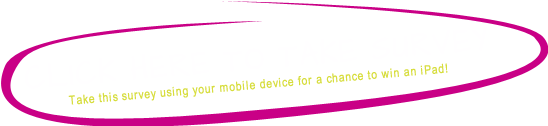
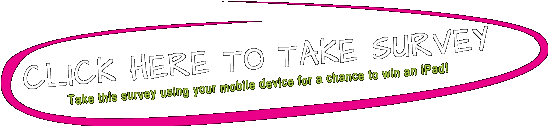
changed the shade of green...
...again!

diff --git a/themes/SFCCappy.min.css b/themes/SFCCappy.min.css
@@ -6,4 +6,4 @@
 * Dual licensed under the MIT or GPL Version 2 licenses.
 * http://jquery.org/license
 *
-*/.ui-bar-a{border:1px solid #d5de22 ;background:#d5de22 ;color:#ffffff ;font-weight:bold;text-shadow:0  -1px  1px  #444444 ;background-image:-webkit-gradient(linear,left top,left bottom,from( #7f8514 ),to( #FFFF2f )); background-image:-webkit-linear-gradient( #7f8514,#FFFF2f ); background-image:   -moz-linear-gradient( #7f8514,#FFFF2f ); background-image:    -ms-linear-gradient( #7f8514,#FFFF2f ); background-image:     -o-linear-gradient( #7f8514,#FFFF2f ); background-image:        linear-gradient( #7f8514,#FFFF2f );}.ui-bar-a .ui-link-inherit{color:#ffffff ;}.ui-bar-a a.ui-link{color:#7cc4e7 ;font-weight:bold;}.ui-bar-a a.ui-link:visited{   color:#2489CE ;}.ui-bar-a a.ui-link:hover{color:#2489CE ;}.ui-bar-a a.ui-link:active{color:#2489CE ;}.ui-bar-a,.ui-bar-a input,.ui-bar-a select,.ui-bar-a textarea,.ui-bar-a button{font-family:Arial,Helvetica,Verdana,sans-serif ;}.ui-body-a,.ui-overlay-a{border:1px solid #545454 ;color:#ffffff ;text-shadow:0  1px  1px  #444444 ;background:#000000 ;background-image:-webkit-gradient(linear,left top,left bottom,from( #000000 ),to( #000000 )); background-image:-webkit-linear-gradient( #000000,#000000 ); background-image:   -moz-linear-gradient( #000000,#000000 ); background-image:    -ms-linear-gradient( #000000,#000000 ); background-image:     -o-linear-gradient( #000000,#000000 ); background-image:        linear-gradient( #000000,#000000 );}.ui-overlay-a{background-image:none;border-width:0;}.ui-body-a,.ui-body-a input,.ui-body-a select,.ui-body-a textarea,.ui-body-a button{font-family:Arial,Helvetica,Verdana,sans-serif ;}.ui-body-a .ui-link-inherit{color:#ffffff ;}.ui-body-a .ui-link{color:#ed1e79 ;font-weight:bold;}.ui-body-a .ui-link:visited{   color:#9a134e ;}.ui-body-a .ui-link:hover{color:#FF228b ;}.ui-body-a .ui-link:active{color:#ed1e79 ;}.ui-btn-up-a{border:1px solid #111 ;background:#333 ;font-weight:bold;color:#fff ;text-shadow:0  1px  1px  #111 ;background-image:-webkit-gradient(linear,left top,left bottom,from( #444444 ),to( #2d2d2d )); background-image:-webkit-linear-gradient( #444444,#2d2d2d ); background-image:   -moz-linear-gradient( #444444,#2d2d2d ); background-image:    -ms-linear-gradient( #444444,#2d2d2d ); background-image:     -o-linear-gradient( #444444,#2d2d2d ); background-image:        linear-gradient( #444444,#2d2d2d );}.ui-btn-up-a:visited,.ui-btn-up-a a.ui-link-inherit{color:#fff ;}.ui-btn-hover-a{border:1px solid #000 ;background:#444444 ;font-weight:bold;color:#fff ;text-shadow:0  1px  1px  #111 ;background-image:-webkit-gradient(linear,left top,left bottom,from( #555555 ),to( #383838 )); background-image:-webkit-linear-gradient( #555555,#383838 ); background-image:   -moz-linear-gradient( #555555,#383838 ); background-image:    -ms-linear-gradient( #555555,#383838 ); background-image:     -o-linear-gradient( #555555,#383838 ); background-image:        linear-gradient( #555555,#383838 );}.ui-btn-hover-a:visited,.ui-btn-hover-a:hover,.ui-btn-hover-a a.ui-link-inherit{color:#fff ;}.ui-btn-down-a{border:1px solid #000 ;background:#222 ;font-weight:bold;color:#fff ;text-shadow:0  1px  1px  #111 ;background-image:-webkit-gradient(linear,left top,left bottom,from( #202020 ),to( #2c2c2c )); background-image:-webkit-linear-gradient( #202020,#2c2c2c ); background-image:   -moz-linear-gradient( #202020,#2c2c2c ); background-image:    -ms-linear-gradient( #202020,#2c2c2c ); background-image:     -o-linear-gradient( #202020,#2c2c2c ); background-image:        linear-gradient( #202020,#2c2c2c );}.ui-btn-down-a:visited,.ui-btn-down-a:hover,.ui-btn-down-a a.ui-link-inherit{color:#fff ;}.ui-btn-up-a,.ui-btn-hover-a,.ui-btn-down-a{font-family:Arial,Helvetica,Verdana,sans-serif ;text-decoration:none;}a.ui-link-inherit{text-decoration:none !important;}.ui-btn-active{border:1px solid #ed1e79 ;background:#ed1e79 ;font-weight:bold;color:#ffffff ;cursor:pointer;text-shadow:0  1px  1px  #444444 ;text-decoration:none;background-image:-webkit-gradient(linear,left top,left bottom,from( #FF2185 ),to( #d51b6c )); background-image:-webkit-linear-gradient( #FF2185,#d51b6c ); background-image:   -moz-linear-gradient( #FF2185,#d51b6c ); background-image:    -ms-linear-gradient( #FF2185,#d51b6c ); background-image:     -o-linear-gradient( #FF2185,#d51b6c ); background-image:        linear-gradient( #FF2185,#d51b6c ); font-family:Arial,Helvetica,Verdana,sans-serif ;}.ui-btn-active:visited,.ui-btn-active:hover,.ui-btn-active a.ui-link-inherit{color:#ffffff ;}.ui-btn-inner{border-top:1px solid #fff;border-color:rgba(255,255,255,.3);}.ui-corner-tl{-moz-border-radius-topleft:.6em ;-webkit-border-top-left-radius:.6em ;border-top-left-radius:.6em ;}.ui-corner-tr{-moz-border-radius-topright:.6em ;-webkit-border-top-right-radius:.6em ;border-top-right-radius:.6em ;}.ui-corner-bl{-moz-border-radius-bottomleft:.6em ;-webkit-border-bottom-left-radius:.6em ;border-bottom-left-radius:.6em ;}.ui-corner-br{-moz-border-radius-bottomright:.6em ;-webkit-border-bottom-right-radius:.6em ;border-bottom-right-radius:.6em ;}.ui-corner-top{-moz-border-radius-topleft:.6em ;-webkit-border-top-left-radius:.6em ;border-top-left-radius:.6em ;-moz-border-radius-topright:.6em ;-webkit-border-top-right-radius:.6em ;border-top-right-radius:.6em ;}.ui-corner-bottom{-moz-border-radius-bottomleft:.6em ;-webkit-border-bottom-left-radius:.6em ;border-bottom-left-radius:.6em ;-moz-border-radius-bottomright:.6em ;-webkit-border-bottom-right-radius:.6em ;border-bottom-right-radius:.6em ;}.ui-corner-right{-moz-border-radius-topright:.6em ;-webkit-border-top-right-radius:.6em ;border-top-right-radius:.6em ;-moz-border-radius-bottomright:.6em ;-webkit-border-bottom-right-radius:.6em ;border-bottom-right-radius:.6em ;}.ui-corner-left{-moz-border-radius-topleft:.6em ;-webkit-border-top-left-radius:.6em ;border-top-left-radius:.6em ;-moz-border-radius-bottomleft:.6em ;-webkit-border-bottom-left-radius:.6em ;border-bottom-left-radius:.6em ;}.ui-corner-all{-moz-border-radius:.6em ;-webkit-border-radius:.6em ;border-radius:.6em ;}.ui-corner-none{-moz-border-radius:   0;-webkit-border-radius:   0;border-radius:   0;}.ui-br{border-bottom:rgb(130,130,130);border-bottom:rgba(130,130,130,.3);border-bottom-width:1px;border-bottom-style:solid;}.ui-disabled{opacity:.3;}.ui-disabled,.ui-disabled a{cursor:default !important;pointer-events:none;}.ui-disabled .ui-btn-text{-ms-filter:"progid:DXImageTransform.Microsoft.Alpha(opacity=30)";filter:alpha(opacity=30);zoom:1;}.ui-icon,.ui-icon-searchfield:after{background:#666 ;background:rgba(0,0,0,.4) ;background-image:url(images/icons-18-white.png) ;background-repeat:no-repeat;-moz-border-radius:9px;-webkit-border-radius:9px;border-radius:9px;}.ui-icon-alt{background:#fff;background:rgba(255,255,255,.3);background-image:url(images/icons-18-black.png);background-repeat:no-repeat;}@media only screen and (-webkit-min-device-pixel-ratio:1.5),      only screen and (min--moz-device-pixel-ratio:1.5),      only screen and (min-resolution:240dpi){.ui-icon-plus,.ui-icon-minus,.ui-icon-delete,.ui-icon-arrow-r,.ui-icon-arrow-l,.ui-icon-arrow-u,.ui-icon-arrow-d,.ui-icon-check,.ui-icon-gear,.ui-icon-refresh,.ui-icon-forward,.ui-icon-back,.ui-icon-grid,.ui-icon-star,.ui-icon-alert,.ui-icon-info,.ui-icon-home,.ui-icon-search,.ui-icon-searchfield:after,.ui-icon-checkbox-off,.ui-icon-checkbox-on,.ui-icon-radio-off,.ui-icon-radio-on{background-image:url(images/icons-36-white.png);-moz-background-size:776px 18px;-o-background-size:776px 18px;-webkit-background-size:776px 18px;background-size:776px 18px;}.ui-icon-alt{background-image:url(images/icons-36-black.png);}}.ui-icon-plus{background-position:-0 50%;}.ui-icon-minus{background-position:-36px 50%;}.ui-icon-delete{background-position:-72px 50%;}.ui-icon-arrow-r{background-position:-108px 50%;}.ui-icon-arrow-l{background-position:-144px 50%;}.ui-icon-arrow-u{background-position:-180px 50%;}.ui-icon-arrow-d{background-position:-216px 50%;}.ui-icon-check{background-position:-252px 50%;}.ui-icon-gear{background-position:-288px 50%;}.ui-icon-refresh{background-position:-324px 50%;}.ui-icon-forward{background-position:-360px 50%;}.ui-icon-back{background-position:-396px 50%;}.ui-icon-grid{background-position:-432px 50%;}.ui-icon-star{background-position:-468px 50%;}.ui-icon-alert{background-position:-504px 50%;}.ui-icon-info{background-position:-540px 50%;}.ui-icon-home{background-position:-576px 50%;}.ui-icon-search,.ui-icon-searchfield:after{background-position:-612px 50%;}.ui-icon-checkbox-off{background-position:-684px 50%;}.ui-icon-checkbox-on{background-position:-648px 50%;}.ui-icon-radio-off{background-position:-756px 50%;}.ui-icon-radio-on{background-position:-720px 50%;}.ui-checkbox .ui-icon{-moz-border-radius:3px;-webkit-border-radius:3px;border-radius:3px;}.ui-icon-checkbox-off,.ui-icon-radio-off{background-color:transparent;}.ui-checkbox-on .ui-icon,.ui-radio-on .ui-icon{background-color:#ed1e79 ; }.ui-icon-loading{background:url(images/ajax-loader.gif);background-size:46px 46px;}.ui-btn-corner-tl{-moz-border-radius-topleft:1em ;-webkit-border-top-left-radius:1em ;border-top-left-radius:1em ;}.ui-btn-corner-tr{-moz-border-radius-topright:1em ;-webkit-border-top-right-radius:1em ;border-top-right-radius:1em ;}.ui-btn-corner-bl{-moz-border-radius-bottomleft:1em ;-webkit-border-bottom-left-radius:1em ;border-bottom-left-radius:1em ;}.ui-btn-corner-br{-moz-border-radius-bottomright:1em ;-webkit-border-bottom-right-radius:1em ;border-bottom-right-radius:1em ;}.ui-btn-corner-top{-moz-border-radius-topleft:1em ;-webkit-border-top-left-radius:1em ;border-top-left-radius:1em ;-moz-border-radius-topright:1em ;-webkit-border-top-right-radius:1em ;border-top-right-radius:1em ;}.ui-btn-corner-bottom{-moz-border-radius-bottomleft:1em ;-webkit-border-bottom-left-radius:1em ;border-bottom-left-radius:1em ;-moz-border-radius-bottomright:1em ;-webkit-border-bottom-right-radius:1em ;border-bottom-right-radius:1em ;}.ui-btn-corner-right{-moz-border-radius-topright:1em ;-webkit-border-top-right-radius:1em ;border-top-right-radius:1em ;-moz-border-radius-bottomright:1em ;-webkit-border-bottom-right-radius:1em ;border-bottom-right-radius:1em ;}.ui-btn-corner-left{-moz-border-radius-topleft:1em ;-webkit-border-top-left-radius:1em ;border-top-left-radius:1em ;-moz-border-radius-bottomleft:1em ;-webkit-border-bottom-left-radius:1em ;border-bottom-left-radius:1em ;}.ui-btn-corner-all{-moz-border-radius:1em ;-webkit-border-radius:1em ;border-radius:1em ;}.ui-corner-tl,.ui-corner-tr,.ui-corner-bl,.ui-corner-br,.ui-corner-top,.ui-corner-bottom,.ui-corner-right,.ui-corner-left,.ui-corner-all,.ui-btn-corner-tl,.ui-btn-corner-tr,.ui-btn-corner-bl,.ui-btn-corner-br,.ui-btn-corner-top,.ui-btn-corner-bottom,.ui-btn-corner-right,.ui-btn-corner-left,.ui-btn-corner-all{ -webkit-background-clip:padding-box;     -moz-background-clip:padding;          background-clip:padding-box;}.ui-overlay{background:#666;opacity:.5;filter:Alpha(Opacity=50);position:absolute;width:100%;height:100%;}.ui-overlay-shadow{-moz-box-shadow:0px 0px 12px rgba(0,0,0,.6);-webkit-box-shadow:0px 0px 12px rgba(0,0,0,.6);box-shadow:0px 0px 12px rgba(0,0,0,.6);}.ui-shadow{-moz-box-shadow:0px 1px 4px  rgba(0,0,0,.3) ;-webkit-box-shadow:0px 1px 4px  rgba(0,0,0,.3) ;box-shadow:0px 1px 4px  rgba(0,0,0,.3) ;}.ui-bar-a .ui-shadow,.ui-bar-b .ui-shadow,.ui-bar-c .ui-shadow {-moz-box-shadow:0px 1px 0 rgba(255,255,255,.3);-webkit-box-shadow:0px 1px 0 rgba(255,255,255,.3);box-shadow:0px 1px 0 rgba(255,255,255,.3);}.ui-shadow-inset{-moz-box-shadow:inset 0px 1px 4px rgba(0,0,0,.2);-webkit-box-shadow:inset 0px 1px 4px rgba(0,0,0,.2);box-shadow:inset 0px 1px 4px rgba(0,0,0,.2);}.ui-icon-shadow{-moz-box-shadow:0px 1px 0 rgba(255,255,255,.4) ;-webkit-box-shadow:0px 1px 0 rgba(255,255,255,.4) ;box-shadow:0px 1px 0 rgba(255,255,255,.4) ;}.ui-btn:focus,.ui-link-inherit:focus{outline:0;}.ui-btn.ui-focus{z-index:1;}.ui-focus,.ui-btn:focus{-moz-box-shadow:inset 0px 0px 3px #ed1e79,0px 0px 9px #ed1e79 ;-webkit-box-shadow:inset 0px 0px 3px #ed1e79,0px 0px 9px #ed1e79 ;box-shadow:inset 0px 0px 3px #ed1e79,0px 0px 9px #ed1e79 ;}.ui-input-text.ui-focus,.ui-input-search.ui-focus{-moz-box-shadow:0px 0px 12px #ed1e79 ;-webkit-box-shadow:0px 0px 12px #ed1e79 ;box-shadow:0px 0px 12px #ed1e79 ;}.ui-mobile-nosupport-boxshadow *{-moz-box-shadow:none !important;-webkit-box-shadow:none !important;box-shadow:none !important;}.ui-mobile-nosupport-boxshadow .ui-focus,.ui-mobile-nosupport-boxshadow .ui-btn:focus,.ui-mobile-nosupport-boxshadow .ui-link-inherit:focus{outline-width:1px;outline-style:auto;}
+*/.ui-bar-a{border:1px solid #8cc63f ;background:#8cc63f ;color:#ffffff ;font-weight:bold;text-shadow:0  -1px  1px  #444444 ;background-image:-webkit-gradient(linear,left top,left bottom,from( #597e28 ),to( #beFF55 )); background-image:-webkit-linear-gradient( #597e28,#beFF55 ); background-image:   -moz-linear-gradient( #597e28,#beFF55 ); background-image:    -ms-linear-gradient( #597e28,#beFF55 ); background-image:     -o-linear-gradient( #597e28,#beFF55 ); background-image:        linear-gradient( #597e28,#beFF55 );}.ui-bar-a .ui-link-inherit{color:#ffffff ;}.ui-bar-a a.ui-link{color:#7cc4e7 ;font-weight:bold;}.ui-bar-a a.ui-link:visited{   color:#2489CE ;}.ui-bar-a a.ui-link:hover{color:#2489CE ;}.ui-bar-a a.ui-link:active{color:#2489CE ;}.ui-bar-a,.ui-bar-a input,.ui-bar-a select,.ui-bar-a textarea,.ui-bar-a button{     font-family:Helvetica,Arial,sans-serif ;}.ui-body-a,.ui-overlay-a{border:1px solid #545454 ;color:#ffffff ;text-shadow:0  1px  1px  #444444 ;background:#000000 ;background-image:-webkit-gradient(linear,left top,left bottom,from( #000000 ),to( #000000 )); background-image:-webkit-linear-gradient( #000000,#000000 ); background-image:   -moz-linear-gradient( #000000,#000000 ); background-image:    -ms-linear-gradient( #000000,#000000 ); background-image:     -o-linear-gradient( #000000,#000000 ); background-image:        linear-gradient( #000000,#000000 );}.ui-overlay-a{background-image:none;border-width:0;}.ui-body-a,.ui-body-a input,.ui-body-a select,.ui-body-a textarea,.ui-body-a button{     font-family:Helvetica,Arial,sans-serif ;}.ui-body-a .ui-link-inherit{color:#ffffff ;}.ui-body-a .ui-link{color:#ed1e79 ;font-weight:bold;}.ui-body-a .ui-link:visited{   color:#9a134e ;}.ui-body-a .ui-link:hover{color:#FF228b ;}.ui-body-a .ui-link:active{color:#ed1e79 ;}.ui-btn-up-a{border:1px solid #111 ;background:#333 ;font-weight:bold;color:#fff ;text-shadow:0  1px  1px  #111 ;background-image:-webkit-gradient(linear,left top,left bottom,from( #444444 ),to( #2d2d2d )); background-image:-webkit-linear-gradient( #444444,#2d2d2d ); background-image:   -moz-linear-gradient( #444444,#2d2d2d ); background-image:    -ms-linear-gradient( #444444,#2d2d2d ); background-image:     -o-linear-gradient( #444444,#2d2d2d ); background-image:        linear-gradient( #444444,#2d2d2d );}.ui-btn-up-a:visited,.ui-btn-up-a a.ui-link-inherit{color:#fff ;}.ui-btn-hover-a{border:1px solid #000 ;background:#444444 ;font-weight:bold;color:#fff ;text-shadow:0  1px  1px  #111 ;background-image:-webkit-gradient(linear,left top,left bottom,from( #555555 ),to( #383838 )); background-image:-webkit-linear-gradient( #555555,#383838 ); background-image:   -moz-linear-gradient( #555555,#383838 ); background-image:    -ms-linear-gradient( #555555,#383838 ); background-image:     -o-linear-gradient( #555555,#383838 ); background-image:        linear-gradient( #555555,#383838 );}.ui-btn-hover-a:visited,.ui-btn-hover-a:hover,.ui-btn-hover-a a.ui-link-inherit{color:#fff ;}.ui-btn-down-a{border:1px solid #000 ;background:#222 ;font-weight:bold;color:#fff ;text-shadow:0  1px  1px  #111 ;background-image:-webkit-gradient(linear,left top,left bottom,from( #202020 ),to( #2c2c2c )); background-image:-webkit-linear-gradient( #202020,#2c2c2c ); background-image:   -moz-linear-gradient( #202020,#2c2c2c ); background-image:    -ms-linear-gradient( #202020,#2c2c2c ); background-image:     -o-linear-gradient( #202020,#2c2c2c ); background-image:        linear-gradient( #202020,#2c2c2c );}.ui-btn-down-a:visited,.ui-btn-down-a:hover,.ui-btn-down-a a.ui-link-inherit{color:#fff ;}.ui-btn-up-a,.ui-btn-hover-a,.ui-btn-down-a{     font-family:Helvetica,Arial,sans-serif ;text-decoration:none;}a.ui-link-inherit{text-decoration:none !important;}.ui-btn-active{border:1px solid #ed1e79 ;background:#ed1e79 ;font-weight:bold;color:#ffffff ;cursor:pointer;text-shadow:0  1px  1px  #444444 ;text-decoration:none;background-image:-webkit-gradient(linear,left top,left bottom,from( #FF2185 ),to( #d51b6c )); background-image:-webkit-linear-gradient( #FF2185,#d51b6c ); background-image:   -moz-linear-gradient( #FF2185,#d51b6c ); background-image:    -ms-linear-gradient( #FF2185,#d51b6c ); background-image:     -o-linear-gradient( #FF2185,#d51b6c ); background-image:        linear-gradient( #FF2185,#d51b6c );      font-family:Helvetica,Arial,sans-serif ;}.ui-btn-active:visited,.ui-btn-active:hover,.ui-btn-active a.ui-link-inherit{color:#ffffff ;}.ui-btn-inner{border-top:1px solid #fff;border-color:rgba(255,255,255,.3);}.ui-corner-tl{-moz-border-radius-topleft:.6em ;-webkit-border-top-left-radius:.6em ;border-top-left-radius:.6em ;}.ui-corner-tr{-moz-border-radius-topright:.6em ;-webkit-border-top-right-radius:.6em ;border-top-right-radius:.6em ;}.ui-corner-bl{-moz-border-radius-bottomleft:.6em ;-webkit-border-bottom-left-radius:.6em ;border-bottom-left-radius:.6em ;}.ui-corner-br{-moz-border-radius-bottomright:.6em ;-webkit-border-bottom-right-radius:.6em ;border-bottom-right-radius:.6em ;}.ui-corner-top{-moz-border-radius-topleft:.6em ;-webkit-border-top-left-radius:.6em ;border-top-left-radius:.6em ;-moz-border-radius-topright:.6em ;-webkit-border-top-right-radius:.6em ;border-top-right-radius:.6em ;}.ui-corner-bottom{-moz-border-radius-bottomleft:.6em ;-webkit-border-bottom-left-radius:.6em ;border-bottom-left-radius:.6em ;-moz-border-radius-bottomright:.6em ;-webkit-border-bottom-right-radius:.6em ;border-bottom-right-radius:.6em ;}.ui-corner-right{-moz-border-radius-topright:.6em ;-webkit-border-top-right-radius:.6em ;border-top-right-radius:.6em ;-moz-border-radius-bottomright:.6em ;-webkit-border-bottom-right-radius:.6em ;border-bottom-right-radius:.6em ;}.ui-corner-left{-moz-border-radius-topleft:.6em ;-webkit-border-top-left-radius:.6em ;border-top-left-radius:.6em ;-moz-border-radius-bottomleft:.6em ;-webkit-border-bottom-left-radius:.6em ;border-bottom-left-radius:.6em ;}.ui-corner-all{-moz-border-radius:.6em ;-webkit-border-radius:.6em ;border-radius:.6em ;}.ui-corner-none{-moz-border-radius:   0;-webkit-border-radius:   0;border-radius:   0;}.ui-br{border-bottom:rgb(130,130,130);border-bottom:rgba(130,130,130,.3);border-bottom-width:1px;border-bottom-style:solid;}.ui-disabled{opacity:.3;}.ui-disabled,.ui-disabled a{cursor:default !important;pointer-events:none;}.ui-disabled .ui-btn-text{-ms-filter:"progid:DXImageTransform.Microsoft.Alpha(opacity=30)";filter:alpha(opacity=30);zoom:1;}.ui-icon,.ui-icon-searchfield:after{background:#666 ;background:rgba(0,0,0,.4) ;background-image:url(images/icons-18-white.png) ;background-repeat:no-repeat;-moz-border-radius:9px;-webkit-border-radius:9px;border-radius:9px;}.ui-icon-alt{background:#fff;background:rgba(255,255,255,.3);background-image:url(images/icons-18-black.png);background-repeat:no-repeat;}@media only screen and (-webkit-min-device-pixel-ratio:1.5),      only screen and (min--moz-device-pixel-ratio:1.5),      only screen and (min-resolution:240dpi){.ui-icon-plus,.ui-icon-minus,.ui-icon-delete,.ui-icon-arrow-r,.ui-icon-arrow-l,.ui-icon-arrow-u,.ui-icon-arrow-d,.ui-icon-check,.ui-icon-gear,.ui-icon-refresh,.ui-icon-forward,.ui-icon-back,.ui-icon-grid,.ui-icon-star,.ui-icon-alert,.ui-icon-info,.ui-icon-home,.ui-icon-search,.ui-icon-searchfield:after,.ui-icon-checkbox-off,.ui-icon-checkbox-on,.ui-icon-radio-off,.ui-icon-radio-on{background-image:url(images/icons-36-white.png);-moz-background-size:776px 18px;-o-background-size:776px 18px;-webkit-background-size:776px 18px;background-size:776px 18px;}.ui-icon-alt{background-image:url(images/icons-36-black.png);}}.ui-icon-plus{background-position:-0 50%;}.ui-icon-minus{background-position:-36px 50%;}.ui-icon-delete{background-position:-72px 50%;}.ui-icon-arrow-r{background-position:-108px 50%;}.ui-icon-arrow-l{background-position:-144px 50%;}.ui-icon-arrow-u{background-position:-180px 50%;}.ui-icon-arrow-d{background-position:-216px 50%;}.ui-icon-check{background-position:-252px 50%;}.ui-icon-gear{background-position:-288px 50%;}.ui-icon-refresh{background-position:-324px 50%;}.ui-icon-forward{background-position:-360px 50%;}.ui-icon-back{background-position:-396px 50%;}.ui-icon-grid{background-position:-432px 50%;}.ui-icon-star{background-position:-468px 50%;}.ui-icon-alert{background-position:-504px 50%;}.ui-icon-info{background-position:-540px 50%;}.ui-icon-home{background-position:-576px 50%;}.ui-icon-search,.ui-icon-searchfield:after{background-position:-612px 50%;}.ui-icon-checkbox-off{background-position:-684px 50%;}.ui-icon-checkbox-on{background-position:-648px 50%;}.ui-icon-radio-off{background-position:-756px 50%;}.ui-icon-radio-on{background-position:-720px 50%;}.ui-checkbox .ui-icon{-moz-border-radius:3px;-webkit-border-radius:3px;border-radius:3px;}.ui-icon-checkbox-off,.ui-icon-radio-off{background-color:transparent;}.ui-checkbox-on .ui-icon,.ui-radio-on .ui-icon{background-color:#ed1e79 ; }.ui-icon-loading{background:url(images/ajax-loader.gif);background-size:46px 46px;}.ui-btn-corner-tl{-moz-border-radius-topleft:1em ;-webkit-border-top-left-radius:1em ;border-top-left-radius:1em ;}.ui-btn-corner-tr{-moz-border-radius-topright:1em ;-webkit-border-top-right-radius:1em ;border-top-right-radius:1em ;}.ui-btn-corner-bl{-moz-border-radius-bottomleft:1em ;-webkit-border-bottom-left-radius:1em ;border-bottom-left-radius:1em ;}.ui-btn-corner-br{-moz-border-radius-bottomright:1em ;-webkit-border-bottom-right-radius:1em ;border-bottom-right-radius:1em ;}.ui-btn-corner-top{-moz-border-radius-topleft:1em ;-webkit-border-top-left-radius:1em ;border-top-left-radius:1em ;-moz-border-radius-topright:1em ;-webkit-border-top-right-radius:1em ;border-top-right-radius:1em ;}.ui-btn-corner-bottom{-moz-border-radius-bottomleft:1em ;-webkit-border-bottom-left-radius:1em ;border-bottom-left-radius:1em ;-moz-border-radius-bottomright:1em ;-webkit-border-bottom-right-radius:1em ;border-bottom-right-radius:1em ;}.ui-btn-corner-right{-moz-border-radius-topright:1em ;-webkit-border-top-right-radius:1em ;border-top-right-radius:1em ;-moz-border-radius-bottomright:1em ;-webkit-border-bottom-right-radius:1em ;border-bottom-right-radius:1em ;}.ui-btn-corner-left{-moz-border-radius-topleft:1em ;-webkit-border-top-left-radius:1em ;border-top-left-radius:1em ;-moz-border-radius-bottomleft:1em ;-webkit-border-bottom-left-radius:1em ;border-bottom-left-radius:1em ;}.ui-btn-corner-all{-moz-border-radius:1em ;-webkit-border-radius:1em ;border-radius:1em ;}.ui-corner-tl,.ui-corner-tr,.ui-corner-bl,.ui-corner-br,.ui-corner-top,.ui-corner-bottom,.ui-corner-right,.ui-corner-left,.ui-corner-all,.ui-btn-corner-tl,.ui-btn-corner-tr,.ui-btn-corner-bl,.ui-btn-corner-br,.ui-btn-corner-top,.ui-btn-corner-bottom,.ui-btn-corner-right,.ui-btn-corner-left,.ui-btn-corner-all{ -webkit-background-clip:padding-box;     -moz-background-clip:padding;          background-clip:padding-box;}.ui-overlay{background:#666;opacity:.5;filter:Alpha(Opacity=50);position:absolute;width:100%;height:100%;}.ui-overlay-shadow{-moz-box-shadow:0px 0px 12px rgba(0,0,0,.6);-webkit-box-shadow:0px 0px 12px rgba(0,0,0,.6);box-shadow:0px 0px 12px rgba(0,0,0,.6);}.ui-shadow{-moz-box-shadow:0px 1px 4px  rgba(0,0,0,.3) ;-webkit-box-shadow:0px 1px 4px  rgba(0,0,0,.3) ;box-shadow:0px 1px 4px  rgba(0,0,0,.3) ;}.ui-bar-a .ui-shadow,.ui-bar-b .ui-shadow,.ui-bar-c .ui-shadow {-moz-box-shadow:0px 1px 0 rgba(255,255,255,.3);-webkit-box-shadow:0px 1px 0 rgba(255,255,255,.3);box-shadow:0px 1px 0 rgba(255,255,255,.3);}.ui-shadow-inset{-moz-box-shadow:inset 0px 1px 4px rgba(0,0,0,.2);-webkit-box-shadow:inset 0px 1px 4px rgba(0,0,0,.2);box-shadow:inset 0px 1px 4px rgba(0,0,0,.2);}.ui-icon-shadow{-moz-box-shadow:0px 1px 0 rgba(255,255,255,.4) ;-webkit-box-shadow:0px 1px 0 rgba(255,255,255,.4) ;box-shadow:0px 1px 0 rgba(255,255,255,.4) ;}.ui-btn:focus,.ui-link-inherit:focus{outline:0;}.ui-btn.ui-focus{z-index:1;}.ui-focus,.ui-btn:focus{-moz-box-shadow:inset 0px 0px 3px #ed1e79,0px 0px 9px #ed1e79 ;-webkit-box-shadow:inset 0px 0px 3px #ed1e79,0px 0px 9px #ed1e79 ;box-shadow:inset 0px 0px 3px #ed1e79,0px 0px 9px #ed1e79 ;}.ui-input-text.ui-focus,.ui-input-search.ui-focus{-moz-box-shadow:0px 0px 12px #ed1e79 ;-webkit-box-shadow:0px 0px 12px #ed1e79 ;box-shadow:0px 0px 12px #ed1e79 ;}.ui-mobile-nosupport-boxshadow *{-moz-box-shadow:none !important;-webkit-box-shadow:none !important;box-shadow:none !important;}.ui-mobile-nosupport-boxshadow .ui-focus,.ui-mobile-nosupport-boxshadow .ui-btn:focus,.ui-mobile-nosupport-boxshadow .ui-link-inherit:focus{outline-width:1px;outline-style:auto;}

diff --git a/themes/SFCCappy2.min.css b/themes/SFCCappy2.min.css
@@ -1,0 +1,9 @@
+/*
+* jQuery Mobile Framework 1.1.1 1981b3f5ec22675ae47df8f0bdf9622e7780e90e
+* http://jquerymobile.com
+*
+* Copyright 2012 jQuery Foundation and other contributors
+* Dual licensed under the MIT or GPL Version 2 licenses.
+* http://jquery.org/license
+*
+*/.ui-bar-a{border:1px solid #d5de22 ;background:#d5de22 ;color:#ffffff ;font-weight:bold;text-shadow:0  -1px  1px  #444444 ;background-image:-webkit-gradient(linear,left top,left bottom,from( #7f8514 ),to( #FFFF2f )); background-image:-webkit-linear-gradient( #7f8514,#FFFF2f ); background-image:   -moz-linear-gradient( #7f8514,#FFFF2f ); background-image:    -ms-linear-gradient( #7f8514,#FFFF2f ); background-image:     -o-linear-gradient( #7f8514,#FFFF2f ); background-image:        linear-gradient( #7f8514,#FFFF2f );}.ui-bar-a .ui-link-inherit{color:#ffffff ;}.ui-bar-a a.ui-link{color:#7cc4e7 ;font-weight:bold;}.ui-bar-a a.ui-link:visited{   color:#2489CE ;}.ui-bar-a a.ui-link:hover{color:#2489CE ;}.ui-bar-a a.ui-link:active{color:#2489CE ;}.ui-bar-a,.ui-bar-a input,.ui-bar-a select,.ui-bar-a textarea,.ui-bar-a button{font-family:Arial,Helvetica,Verdana,sans-serif ;}.ui-body-a,.ui-overlay-a{border:1px solid #545454 ;color:#ffffff ;text-shadow:0  1px  1px  #444444 ;background:#000000 ;background-image:-webkit-gradient(linear,left top,left bottom,from( #000000 ),to( #000000 )); background-image:-webkit-linear-gradient( #000000,#000000 ); background-image:   -moz-linear-gradient( #000000,#000000 ); background-image:    -ms-linear-gradient( #000000,#000000 ); background-image:     -o-linear-gradient( #000000,#000000 ); background-image:        linear-gradient( #000000,#000000 );}.ui-overlay-a{background-image:none;border-width:0;}.ui-body-a,.ui-body-a input,.ui-body-a select,.ui-body-a textarea,.ui-body-a button{font-family:Arial,Helvetica,Verdana,sans-serif ;}.ui-body-a .ui-link-inherit{color:#ffffff ;}.ui-body-a .ui-link{color:#ed1e79 ;font-weight:bold;}.ui-body-a .ui-link:visited{   color:#9a134e ;}.ui-body-a .ui-link:hover{color:#FF228b ;}.ui-body-a .ui-link:active{color:#ed1e79 ;}.ui-btn-up-a{border:1px solid #111 ;background:#333 ;font-weight:bold;color:#fff ;text-shadow:0  1px  1px  #111 ;background-image:-webkit-gradient(linear,left top,left bottom,from( #444444 ),to( #2d2d2d )); background-image:-webkit-linear-gradient( #444444,#2d2d2d ); background-image:   -moz-linear-gradient( #444444,#2d2d2d ); background-image:    -ms-linear-gradient( #444444,#2d2d2d ); background-image:     -o-linear-gradient( #444444,#2d2d2d ); background-image:        linear-gradient( #444444,#2d2d2d );}.ui-btn-up-a:visited,.ui-btn-up-a a.ui-link-inherit{color:#fff ;}.ui-btn-hover-a{border:1px solid #000 ;background:#444444 ;font-weight:bold;color:#fff ;text-shadow:0  1px  1px  #111 ;background-image:-webkit-gradient(linear,left top,left bottom,from( #555555 ),to( #383838 )); background-image:-webkit-linear-gradient( #555555,#383838 ); background-image:   -moz-linear-gradient( #555555,#383838 ); background-image:    -ms-linear-gradient( #555555,#383838 ); background-image:     -o-linear-gradient( #555555,#383838 ); background-image:        linear-gradient( #555555,#383838 );}.ui-btn-hover-a:visited,.ui-btn-hover-a:hover,.ui-btn-hover-a a.ui-link-inherit{color:#fff ;}.ui-btn-down-a{border:1px solid #000 ;background:#222 ;font-weight:bold;color:#fff ;text-shadow:0  1px  1px  #111 ;background-image:-webkit-gradient(linear,left top,left bottom,from( #202020 ),to( #2c2c2c )); background-image:-webkit-linear-gradient( #202020,#2c2c2c ); background-image:   -moz-linear-gradient( #202020,#2c2c2c ); background-image:    -ms-linear-gradient( #202020,#2c2c2c ); background-image:     -o-linear-gradient( #202020,#2c2c2c ); background-image:        linear-gradient( #202020,#2c2c2c );}.ui-btn-down-a:visited,.ui-btn-down-a:hover,.ui-btn-down-a a.ui-link-inherit{color:#fff ;}.ui-btn-up-a,.ui-btn-hover-a,.ui-btn-down-a{font-family:Arial,Helvetica,Verdana,sans-serif ;text-decoration:none;}a.ui-link-inherit{text-decoration:none !important;}.ui-btn-active{border:1px solid #ed1e79 ;background:#ed1e79 ;font-weight:bold;color:#ffffff ;cursor:pointer;text-shadow:0  1px  1px  #444444 ;text-decoration:none;background-image:-webkit-gradient(linear,left top,left bottom,from( #FF2185 ),to( #d51b6c )); background-image:-webkit-linear-gradient( #FF2185,#d51b6c ); background-image:   -moz-linear-gradient( #FF2185,#d51b6c ); background-image:    -ms-linear-gradient( #FF2185,#d51b6c ); background-image:     -o-linear-gradient( #FF2185,#d51b6c ); background-image:        linear-gradient( #FF2185,#d51b6c ); font-family:Arial,Helvetica,Verdana,sans-serif ;}.ui-btn-active:visited,.ui-btn-active:hover,.ui-btn-active a.ui-link-inherit{color:#ffffff ;}.ui-btn-inner{border-top:1px solid #fff;border-color:rgba(255,255,255,.3);}.ui-corner-tl{-moz-border-radius-topleft:.6em ;-webkit-border-top-left-radius:.6em ;border-top-left-radius:.6em ;}.ui-corner-tr{-moz-border-radius-topright:.6em ;-webkit-border-top-right-radius:.6em ;border-top-right-radius:.6em ;}.ui-corner-bl{-moz-border-radius-bottomleft:.6em ;-webkit-border-bottom-left-radius:.6em ;border-bottom-left-radius:.6em ;}.ui-corner-br{-moz-border-radius-bottomright:.6em ;-webkit-border-bottom-right-radius:.6em ;border-bottom-right-radius:.6em ;}.ui-corner-top{-moz-border-radius-topleft:.6em ;-webkit-border-top-left-radius:.6em ;border-top-left-radius:.6em ;-moz-border-radius-topright:.6em ;-webkit-border-top-right-radius:.6em ;border-top-right-radius:.6em ;}.ui-corner-bottom{-moz-border-radius-bottomleft:.6em ;-webkit-border-bottom-left-radius:.6em ;border-bottom-left-radius:.6em ;-moz-border-radius-bottomright:.6em ;-webkit-border-bottom-right-radius:.6em ;border-bottom-right-radius:.6em ;}.ui-corner-right{-moz-border-radius-topright:.6em ;-webkit-border-top-right-radius:.6em ;border-top-right-radius:.6em ;-moz-border-radius-bottomright:.6em ;-webkit-border-bottom-right-radius:.6em ;border-bottom-right-radius:.6em ;}.ui-corner-left{-moz-border-radius-topleft:.6em ;-webkit-border-top-left-radius:.6em ;border-top-left-radius:.6em ;-moz-border-radius-bottomleft:.6em ;-webkit-border-bottom-left-radius:.6em ;border-bottom-left-radius:.6em ;}.ui-corner-all{-moz-border-radius:.6em ;-webkit-border-radius:.6em ;border-radius:.6em ;}.ui-corner-none{-moz-border-radius:   0;-webkit-border-radius:   0;border-radius:   0;}.ui-br{border-bottom:rgb(130,130,130);border-bottom:rgba(130,130,130,.3);border-bottom-width:1px;border-bottom-style:solid;}.ui-disabled{opacity:.3;}.ui-disabled,.ui-disabled a{cursor:default !important;pointer-events:none;}.ui-disabled .ui-btn-text{-ms-filter:"progid:DXImageTransform.Microsoft.Alpha(opacity=30)";filter:alpha(opacity=30);zoom:1;}.ui-icon,.ui-icon-searchfield:after{background:#666 ;background:rgba(0,0,0,.4) ;background-image:url(images/icons-18-white.png) ;background-repeat:no-repeat;-moz-border-radius:9px;-webkit-border-radius:9px;border-radius:9px;}.ui-icon-alt{background:#fff;background:rgba(255,255,255,.3);background-image:url(images/icons-18-black.png);background-repeat:no-repeat;}@media only screen and (-webkit-min-device-pixel-ratio:1.5),      only screen and (min--moz-device-pixel-ratio:1.5),      only screen and (min-resolution:240dpi){.ui-icon-plus,.ui-icon-minus,.ui-icon-delete,.ui-icon-arrow-r,.ui-icon-arrow-l,.ui-icon-arrow-u,.ui-icon-arrow-d,.ui-icon-check,.ui-icon-gear,.ui-icon-refresh,.ui-icon-forward,.ui-icon-back,.ui-icon-grid,.ui-icon-star,.ui-icon-alert,.ui-icon-info,.ui-icon-home,.ui-icon-search,.ui-icon-searchfield:after,.ui-icon-checkbox-off,.ui-icon-checkbox-on,.ui-icon-radio-off,.ui-icon-radio-on{background-image:url(images/icons-36-white.png);-moz-background-size:776px 18px;-o-background-size:776px 18px;-webkit-background-size:776px 18px;background-size:776px 18px;}.ui-icon-alt{background-image:url(images/icons-36-black.png);}}.ui-icon-plus{background-position:-0 50%;}.ui-icon-minus{background-position:-36px 50%;}.ui-icon-delete{background-position:-72px 50%;}.ui-icon-arrow-r{background-position:-108px 50%;}.ui-icon-arrow-l{background-position:-144px 50%;}.ui-icon-arrow-u{background-position:-180px 50%;}.ui-icon-arrow-d{background-position:-216px 50%;}.ui-icon-check{background-position:-252px 50%;}.ui-icon-gear{background-position:-288px 50%;}.ui-icon-refresh{background-position:-324px 50%;}.ui-icon-forward{background-position:-360px 50%;}.ui-icon-back{background-position:-396px 50%;}.ui-icon-grid{background-position:-432px 50%;}.ui-icon-star{background-position:-468px 50%;}.ui-icon-alert{background-position:-504px 50%;}.ui-icon-info{background-position:-540px 50%;}.ui-icon-home{background-position:-576px 50%;}.ui-icon-search,.ui-icon-searchfield:after{background-position:-612px 50%;}.ui-icon-checkbox-off{background-position:-684px 50%;}.ui-icon-checkbox-on{background-position:-648px 50%;}.ui-icon-radio-off{background-position:-756px 50%;}.ui-icon-radio-on{background-position:-720px 50%;}.ui-checkbox .ui-icon{-moz-border-radius:3px;-webkit-border-radius:3px;border-radius:3px;}.ui-icon-checkbox-off,.ui-icon-radio-off{background-color:transparent;}.ui-checkbox-on .ui-icon,.ui-radio-on .ui-icon{background-color:#ed1e79 ; }.ui-icon-loading{background:url(images/ajax-loader.gif);background-size:46px 46px;}.ui-btn-corner-tl{-moz-border-radius-topleft:1em ;-webkit-border-top-left-radius:1em ;border-top-left-radius:1em ;}.ui-btn-corner-tr{-moz-border-radius-topright:1em ;-webkit-border-top-right-radius:1em ;border-top-right-radius:1em ;}.ui-btn-corner-bl{-moz-border-radius-bottomleft:1em ;-webkit-border-bottom-left-radius:1em ;border-bottom-left-radius:1em ;}.ui-btn-corner-br{-moz-border-radius-bottomright:1em ;-webkit-border-bottom-right-radius:1em ;border-bottom-right-radius:1em ;}.ui-btn-corner-top{-moz-border-radius-topleft:1em ;-webkit-border-top-left-radius:1em ;border-top-left-radius:1em ;-moz-border-radius-topright:1em ;-webkit-border-top-right-radius:1em ;border-top-right-radius:1em ;}.ui-btn-corner-bottom{-moz-border-radius-bottomleft:1em ;-webkit-border-bottom-left-radius:1em ;border-bottom-left-radius:1em ;-moz-border-radius-bottomright:1em ;-webkit-border-bottom-right-radius:1em ;border-bottom-right-radius:1em ;}.ui-btn-corner-right{-moz-border-radius-topright:1em ;-webkit-border-top-right-radius:1em ;border-top-right-radius:1em ;-moz-border-radius-bottomright:1em ;-webkit-border-bottom-right-radius:1em ;border-bottom-right-radius:1em ;}.ui-btn-corner-left{-moz-border-radius-topleft:1em ;-webkit-border-top-left-radius:1em ;border-top-left-radius:1em ;-moz-border-radius-bottomleft:1em ;-webkit-border-bottom-left-radius:1em ;border-bottom-left-radius:1em ;}.ui-btn-corner-all{-moz-border-radius:1em ;-webkit-border-radius:1em ;border-radius:1em ;}.ui-corner-tl,.ui-corner-tr,.ui-corner-bl,.ui-corner-br,.ui-corner-top,.ui-corner-bottom,.ui-corner-right,.ui-corner-left,.ui-corner-all,.ui-btn-corner-tl,.ui-btn-corner-tr,.ui-btn-corner-bl,.ui-btn-corner-br,.ui-btn-corner-top,.ui-btn-corner-bottom,.ui-btn-corner-right,.ui-btn-corner-left,.ui-btn-corner-all{ -webkit-background-clip:padding-box;     -moz-background-clip:padding;          background-clip:padding-box;}.ui-overlay{background:#666;opacity:.5;filter:Alpha(Opacity=50);position:absolute;width:100%;height:100%;}.ui-overlay-shadow{-moz-box-shadow:0px 0px 12px rgba(0,0,0,.6);-webkit-box-shadow:0px 0px 12px rgba(0,0,0,.6);box-shadow:0px 0px 12px rgba(0,0,0,.6);}.ui-shadow{-moz-box-shadow:0px 1px 4px  rgba(0,0,0,.3) ;-webkit-box-shadow:0px 1px 4px  rgba(0,0,0,.3) ;box-shadow:0px 1px 4px  rgba(0,0,0,.3) ;}.ui-bar-a .ui-shadow,.ui-bar-b .ui-shadow,.ui-bar-c .ui-shadow {-moz-box-shadow:0px 1px 0 rgba(255,255,255,.3);-webkit-box-shadow:0px 1px 0 rgba(255,255,255,.3);box-shadow:0px 1px 0 rgba(255,255,255,.3);}.ui-shadow-inset{-moz-box-shadow:inset 0px 1px 4px rgba(0,0,0,.2);-webkit-box-shadow:inset 0px 1px 4px rgba(0,0,0,.2);box-shadow:inset 0px 1px 4px rgba(0,0,0,.2);}.ui-icon-shadow{-moz-box-shadow:0px 1px 0 rgba(255,255,255,.4) ;-webkit-box-shadow:0px 1px 0 rgba(255,255,255,.4) ;box-shadow:0px 1px 0 rgba(255,255,255,.4) ;}.ui-btn:focus,.ui-link-inherit:focus{outline:0;}.ui-btn.ui-focus{z-index:1;}.ui-focus,.ui-btn:focus{-moz-box-shadow:inset 0px 0px 3px #ed1e79,0px 0px 9px #ed1e79 ;-webkit-box-shadow:inset 0px 0px 3px #ed1e79,0px 0px 9px #ed1e79 ;box-shadow:inset 0px 0px 3px #ed1e79,0px 0px 9px #ed1e79 ;}.ui-input-text.ui-focus,.ui-input-search.ui-focus{-moz-box-shadow:0px 0px 12px #ed1e79 ;-webkit-box-shadow:0px 0px 12px #ed1e79 ;box-shadow:0px 0px 12px #ed1e79 ;}.ui-mobile-nosupport-boxshadow *{-moz-box-shadow:none !important;-webkit-box-shadow:none !important;box-shadow:none !important;}.ui-mobile-nosupport-boxshadow .ui-focus,.ui-mobile-nosupport-boxshadow .ui-btn:focus,.ui-mobile-nosupport-boxshadow .ui-link-inherit:focus{outline-width:1px;outline-style:auto;}

diff --git a/themes/SFCCappy.css b/themes/SFCCappy.css
@@ -13,17 +13,17 @@
 -----------------------------------------------------------------------------------------------------------*/
 
 .ui-bar-a {
-	border: 1px solid #d5de22 /*{a-bar-border}*/;
-	background: #d5de22 /*{a-bar-background-color}*/;
+	border: 1px solid #C0D95B /*{a-bar-border}*/;
+	background: #C0D95B /*{a-bar-background-color}*/;
 	color: #ffffff /*{a-bar-color}*/;
 	font-weight: bold;
 	text-shadow: 0 /*{a-bar-shadow-x}*/ -1px /*{a-bar-shadow-y}*/ 1px /*{a-bar-shadow-radius}*/ #444444 /*{a-bar-shadow-color}*/;
-	background-image: -webkit-gradient(linear, left top, left bottom, from( #7f8514 /*{a-bar-background-start}*/), to( #FFFF2f /*{a-bar-background-end}*/)); /* Saf4+, Chrome */
-	background-image: -webkit-linear-gradient( #7f8514 /*{a-bar-background-start}*/, #FFFF2f /*{a-bar-background-end}*/); /* Chrome 10+, Saf5.1+ */
-	background-image:    -moz-linear-gradient( #7f8514 /*{a-bar-background-start}*/, #FFFF2f /*{a-bar-background-end}*/); /* FF3.6 */
-	background-image:     -ms-linear-gradient( #7f8514 /*{a-bar-background-start}*/, #FFFF2f /*{a-bar-background-end}*/); /* IE10 */
-	background-image:      -o-linear-gradient( #7f8514 /*{a-bar-background-start}*/, #FFFF2f /*{a-bar-background-end}*/); /* Opera 11.10+ */
-	background-image:         linear-gradient( #7f8514 /*{a-bar-background-start}*/, #FFFF2f /*{a-bar-background-end}*/);
+	background-image: -webkit-gradient(linear, left top, left bottom, from( #597e28 /*{a-bar-background-start}*/), to( #beFF55 /*{a-bar-background-end}*/)); /* Saf4+, Chrome */
+	background-image: -webkit-linear-gradient( #597e28 /*{a-bar-background-start}*/, #beFF55 /*{a-bar-background-end}*/); /* Chrome 10+, Saf5.1+ */
+	background-image:    -moz-linear-gradient( #597e28 /*{a-bar-background-start}*/, #beFF55 /*{a-bar-background-end}*/); /* FF3.6 */
+	background-image:     -ms-linear-gradient( #597e28 /*{a-bar-background-start}*/, #beFF55 /*{a-bar-background-end}*/); /* IE10 */
+	background-image:      -o-linear-gradient( #597e28 /*{a-bar-background-start}*/, #beFF55 /*{a-bar-background-end}*/); /* Opera 11.10+ */
+	background-image:         linear-gradient( #597e28 /*{a-bar-background-start}*/, #beFF55 /*{a-bar-background-end}*/);
 }
 .ui-bar-a .ui-link-inherit {
 	color: #ffffff /*{a-bar-color}*/;
@@ -51,7 +51,7 @@
 .ui-bar-a select,
 .ui-bar-a textarea,
 .ui-bar-a button {
-	 font-family: Arial, Helvetica, Verdana, sans-serif /*{global-font-family}*/;
+	      font-family: Helvetica, Arial, sans-serif /*{global-font-family}*/;
 }
 .ui-body-a,
 .ui-overlay-a {
@@ -75,7 +75,7 @@
 .ui-body-a select,
 .ui-body-a textarea,
 .ui-body-a button {
-	 font-family: Arial, Helvetica, Verdana, sans-serif /*{global-font-family}*/;
+	      font-family: Helvetica, Arial, sans-serif /*{global-font-family}*/;
 }
 .ui-body-a .ui-link-inherit {
 	color: #ffffff /*{a-body-color}*/;
@@ -154,7 +154,7 @@
 .ui-btn-up-a,
 .ui-btn-hover-a,
 .ui-btn-down-a {
-	 font-family: Arial, Helvetica, Verdana, sans-serif /*{global-font-family}*/;
+	      font-family: Helvetica, Arial, sans-serif /*{global-font-family}*/;
 	text-decoration: none;
 }
 
@@ -185,7 +185,7 @@ a.ui-link-inherit {
 	background-image:     -ms-linear-gradient( #FF2185 /*{global-active-background-start}*/, #d51b6c /*{global-active-background-end}*/); /* IE10 */
 	background-image:      -o-linear-gradient( #FF2185 /*{global-active-background-start}*/, #d51b6c /*{global-active-background-end}*/); /* Opera 11.10+ */
 	background-image:         linear-gradient( #FF2185 /*{global-active-background-start}*/, #d51b6c /*{global-active-background-end}*/);
-	 font-family: Arial, Helvetica, Verdana, sans-serif /*{global-font-family}*/;
+	      font-family: Helvetica, Arial, sans-serif /*{global-font-family}*/;
 }
 .ui-btn-active:visited,
 .ui-btn-active:hover,

diff --git a/themes/SFCCappy2.css b/themes/SFCCappy2.css
@@ -13,17 +13,17 @@
 -----------------------------------------------------------------------------------------------------------*/
 
 .ui-bar-a {
-	border: 1px solid #8cc63f /*{a-bar-border}*/;
-	background: #8cc63f /*{a-bar-background-color}*/;
+	border: 1px solid #d5de22 /*{a-bar-border}*/;
+	background: #d5de22 /*{a-bar-background-color}*/;
 	color: #ffffff /*{a-bar-color}*/;
 	font-weight: bold;
 	text-shadow: 0 /*{a-bar-shadow-x}*/ -1px /*{a-bar-shadow-y}*/ 1px /*{a-bar-shadow-radius}*/ #444444 /*{a-bar-shadow-color}*/;
-	background-image: -webkit-gradient(linear, left top, left bottom, from( #597e28 /*{a-bar-background-start}*/), to( #beFF55 /*{a-bar-background-end}*/)); /* Saf4+, Chrome */
-	background-image: -webkit-linear-gradient( #597e28 /*{a-bar-background-start}*/, #beFF55 /*{a-bar-background-end}*/); /* Chrome 10+, Saf5.1+ */
-	background-image:    -moz-linear-gradient( #597e28 /*{a-bar-background-start}*/, #beFF55 /*{a-bar-background-end}*/); /* FF3.6 */
-	background-image:     -ms-linear-gradient( #597e28 /*{a-bar-background-start}*/, #beFF55 /*{a-bar-background-end}*/); /* IE10 */
-	background-image:      -o-linear-gradient( #597e28 /*{a-bar-background-start}*/, #beFF55 /*{a-bar-background-end}*/); /* Opera 11.10+ */
-	background-image:         linear-gradient( #597e28 /*{a-bar-background-start}*/, #beFF55 /*{a-bar-background-end}*/);
+	background-image: -webkit-gradient(linear, left top, left bottom, from( #7f8514 /*{a-bar-background-start}*/), to( #FFFF2f /*{a-bar-background-end}*/)); /* Saf4+, Chrome */
+	background-image: -webkit-linear-gradient( #7f8514 /*{a-bar-background-start}*/, #FFFF2f /*{a-bar-background-end}*/); /* Chrome 10+, Saf5.1+ */
+	background-image:    -moz-linear-gradient( #7f8514 /*{a-bar-background-start}*/, #FFFF2f /*{a-bar-background-end}*/); /* FF3.6 */
+	background-image:     -ms-linear-gradient( #7f8514 /*{a-bar-background-start}*/, #FFFF2f /*{a-bar-background-end}*/); /* IE10 */
+	background-image:      -o-linear-gradient( #7f8514 /*{a-bar-background-start}*/, #FFFF2f /*{a-bar-background-end}*/); /* Opera 11.10+ */
+	background-image:         linear-gradient( #7f8514 /*{a-bar-background-start}*/, #FFFF2f /*{a-bar-background-end}*/);
 }
 .ui-bar-a .ui-link-inherit {
 	color: #ffffff /*{a-bar-color}*/;
@@ -51,7 +51,7 @@
 .ui-bar-a select,
 .ui-bar-a textarea,
 .ui-bar-a button {
-	      font-family: Helvetica, Arial, sans-serif /*{global-font-family}*/;
+	 font-family: Arial, Helvetica, Verdana, sans-serif /*{global-font-family}*/;
 }
 .ui-body-a,
 .ui-overlay-a {
@@ -75,7 +75,7 @@
 .ui-body-a select,
 .ui-body-a textarea,
 .ui-body-a button {
-	      font-family: Helvetica, Arial, sans-serif /*{global-font-family}*/;
+	 font-family: Arial, Helvetica, Verdana, sans-serif /*{global-font-family}*/;
 }
 .ui-body-a .ui-link-inherit {
 	color: #ffffff /*{a-body-color}*/;
@@ -154,7 +154,7 @@
 .ui-btn-up-a,
 .ui-btn-hover-a,
 .ui-btn-down-a {
-	      font-family: Helvetica, Arial, sans-serif /*{global-font-family}*/;
+	 font-family: Arial, Helvetica, Verdana, sans-serif /*{global-font-family}*/;
 	text-decoration: none;
 }
 
@@ -185,7 +185,7 @@ a.ui-link-inherit {
 	background-image:     -ms-linear-gradient( #FF2185 /*{global-active-background-start}*/, #d51b6c /*{global-active-background-end}*/); /* IE10 */
 	background-image:      -o-linear-gradient( #FF2185 /*{global-active-background-start}*/, #d51b6c /*{global-active-background-end}*/); /* Opera 11.10+ */
 	background-image:         linear-gradient( #FF2185 /*{global-active-background-start}*/, #d51b6c /*{global-active-background-end}*/);
-	      font-family: Helvetica, Arial, sans-serif /*{global-font-family}*/;
+	 font-family: Arial, Helvetica, Verdana, sans-serif /*{global-font-family}*/;
 }
 .ui-btn-active:visited,
 .ui-btn-active:hover,

diff --git a/css/style.css b/css/style.css
@@ -71,7 +71,7 @@ ins { background: #ff9; color: #000; text-decoration: none; }
 
 mark { background: #ff0; color: #000; font-style: italic; font-weight: bold; }
 
-strong { color: #d5de22; }
+strong { color: #C0D95B; }
 
 em { color: white; }
 
@@ -419,7 +419,10 @@ article {
 	width: 274px;
 	height: 63px;
 	}
-
+#about h2 {
+	height: 115px;
+	background: url(../img/circle_about.png) top center no-repeat;
+}
 
 }
 
